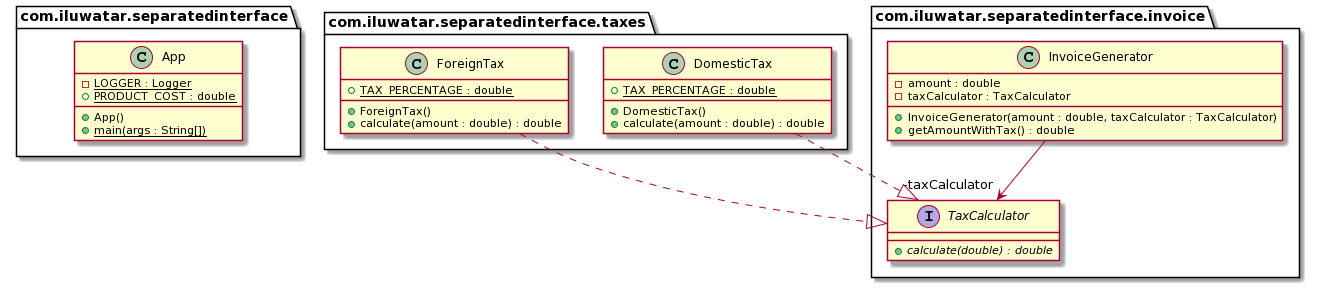
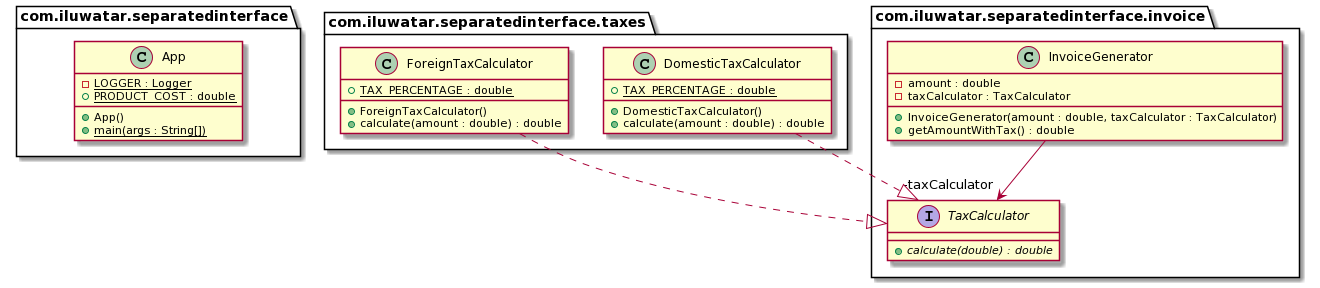
#1313 Rename DomesticTax,ForeignTax and review fixes

diff --git a/separated-interface/src/main/java/com/iluwatar/separatedinterface/App.java b/separated-interface/src/main/java/com/iluwatar/separatedinterface/App.java
@@ -24,8 +24,8 @@
 package com.iluwatar.separatedinterface;
 
 import com.iluwatar.separatedinterface.invoice.InvoiceGenerator;
-import com.iluwatar.separatedinterface.taxes.DomesticTax;
-import com.iluwatar.separatedinterface.taxes.ForeignTax;
+import com.iluwatar.separatedinterface.taxes.DomesticTaxCalculator;
+import com.iluwatar.separatedinterface.taxes.ForeignTaxCalculator;
 import org.slf4j.Logger;
 import org.slf4j.LoggerFactory;
 
@@ -51,11 +51,12 @@ public class App {
    */
   public static void main(String[] args) {
     //Create the invoice generator with product cost as 50 and foreign product tax
-    var internationalProductInvoice = new InvoiceGenerator(PRODUCT_COST, new ForeignTax());
+    var internationalProductInvoice = new InvoiceGenerator(PRODUCT_COST,
+        new ForeignTaxCalculator());
     LOGGER.info("Foreign Tax applied: {}", "" + internationalProductInvoice.getAmountWithTax());
 
     //Create the invoice generator with product cost as 50 and domestic product tax
-    var domesticProductInvoice = new InvoiceGenerator(PRODUCT_COST, new DomesticTax());
+    var domesticProductInvoice = new InvoiceGenerator(PRODUCT_COST, new DomesticTaxCalculator());
     LOGGER.info("Domestic Tax applied: {}", "" + domesticProductInvoice.getAmountWithTax());
   }
 }

diff --git a/separated-interface/src/test/java/com/iluwatar/separatedinterface/taxes/DomesticTaxCalculatorTest.java b/separated-interface/src/test/java/com/iluwatar/separatedinterface/taxes/DomesticTaxCalculatorTest.java
@@ -23,18 +23,19 @@
 
 package com.iluwatar.separatedinterface.taxes;
 
-import com.iluwatar.separatedinterface.invoice.TaxCalculator;
+import org.junit.jupiter.api.Assertions;
+import org.junit.jupiter.api.Test;
 
-/**
- * TaxCalculator for Domestic goods with 20% tax.
- */
-public class DomesticTax implements TaxCalculator {
+public class DomesticTaxCalculatorTest {
 
-  public static final double TAX_PERCENTAGE = 20;
+  private DomesticTaxCalculator target;
 
-  @Override
-  public double calculate(double amount) {
-    return amount * TAX_PERCENTAGE / 100.0;
+  @Test
+  public void testTaxCalculation(){
+    target = new DomesticTaxCalculator();
+
+    var tax=target.calculate(100.0);
+    Assertions.assertEquals(tax,20.0);
   }
 
 }

diff --git a/separated-interface/src/test/java/com/iluwatar/separatedinterface/taxes/ForeignTaxCalculatorTest.java b/separated-interface/src/test/java/com/iluwatar/separatedinterface/taxes/ForeignTaxCalculatorTest.java
@@ -23,18 +23,19 @@
 
 package com.iluwatar.separatedinterface.taxes;
 
-import com.iluwatar.separatedinterface.invoice.TaxCalculator;
+import org.junit.jupiter.api.Assertions;
+import org.junit.jupiter.api.Test;
 
-/**
- * TaxCalculator for foreign goods with 60% tax.
- */
-public class ForeignTax implements TaxCalculator {
+public class ForeignTaxCalculatorTest {
 
-  public static final double TAX_PERCENTAGE = 60;
+  private ForeignTaxCalculator target;
 
-  @Override
-  public double calculate(double amount) {
-    return amount * TAX_PERCENTAGE / 100.0;
+  @Test
+  public void testTaxCalculation(){
+    target = new ForeignTaxCalculator();
+
+    var tax=target.calculate(100.0);
+    Assertions.assertEquals(tax,60.0);
   }
 
 }

diff --git a/separated-interface/src/main/java/com/iluwatar/separatedinterface/taxes/DomesticTaxCalculator.java b/separated-interface/src/main/java/com/iluwatar/separatedinterface/taxes/DomesticTaxCalculator.java
@@ -23,19 +23,18 @@
 
 package com.iluwatar.separatedinterface.taxes;
 
-import org.junit.jupiter.api.Assertions;
-import org.junit.jupiter.api.Test;
+import com.iluwatar.separatedinterface.invoice.TaxCalculator;
 
-public class DomesticTaxTest {
+/**
+ * TaxCalculator for Domestic goods with 20% tax.
+ */
+public class DomesticTaxCalculator implements TaxCalculator {
 
-  private DomesticTax target;
+  public static final double TAX_PERCENTAGE = 20;
 
-  @Test
-  public void testTaxCaluclation(){
-    target = new DomesticTax();
-
-    var tax=target.calculate(100.0);
-    Assertions.assertEquals(tax,20.0);
+  @Override
+  public double calculate(double amount) {
+    return amount * TAX_PERCENTAGE / 100.0;
   }
 
 }

diff --git a/separated-interface/src/main/java/com/iluwatar/separatedinterface/taxes/ForeignTaxCalculator.java b/separated-interface/src/main/java/com/iluwatar/separatedinterface/taxes/ForeignTaxCalculator.java
@@ -23,19 +23,18 @@
 
 package com.iluwatar.separatedinterface.taxes;
 
-import org.junit.jupiter.api.Assertions;
-import org.junit.jupiter.api.Test;
+import com.iluwatar.separatedinterface.invoice.TaxCalculator;
 
-public class ForeignTaxTest {
+/**
+ * TaxCalculator for foreign goods with 60% tax.
+ */
+public class ForeignTaxCalculator implements TaxCalculator {
 
-  private ForeignTax target;
+  public static final double TAX_PERCENTAGE = 60;
 
-  @Test
-  public void testTaxCaluclation(){
-    target = new ForeignTax();
-
-    var tax=target.calculate(100.0);
-    Assertions.assertEquals(tax,60.0);
+  @Override
+  public double calculate(double amount) {
+    return amount * TAX_PERCENTAGE / 100.0;
   }
 
 }

diff --git a/separated-interface/README.md b/separated-interface/README.md
@@ -3,7 +3,7 @@ layout: pattern
 title: Separated Interface
 folder: separated-interface
 permalink: /patterns/separated-interface/
-categories: Architectural
+categories: Structural
 tags:
  - Decoupling
 ---
@@ -22,7 +22,7 @@ In plain words
 
 > Separated interface pattern encourages to keep the implementations of an interface decoupled from the client and its definition, so the client is not dependent on the implementation.
 
-A client code may abstract some specific functionality to an interface, and define the definition of the interface as an SPI. Another package may implement this interface definition with a concrete logic, which will be injected into the client code at runtime (with a third class, injecting the implementation in the client) or at compile time (using Plugin pattern with some configurable file).
+A client code may abstract some specific functionality to an interface, and define the definition of the interface as an SPI ([Service Programming Interface](https://en.wikipedia.org/wiki/Service_provider_interface) is an API intended and open to be implemented or extended by a third party). Another package may implement this interface definition with a concrete logic, which will be injected into the client code at runtime (with a third class, injecting the implementation in the client) or at compile time (using Plugin pattern with some configurable file).
 
 **Programmatic Example**
 
@@ -60,9 +60,9 @@ public interface TaxCalculator {
 
 **Implementation package**
 In another package (which the client is completely unaware of) there exist multiple implementations of the ```TaxCalculator``` interface
-```ForeignTax``` which levies 60% tax for international products.
+```ForeignTaxCalculator``` which levies 60% tax for international products.
 ```java
-public class ForeignTax implements TaxCalculator {
+public class ForeignTaxCalculator implements TaxCalculator {
 
   public static final double TAX_PERCENTAGE = 60;
 
@@ -74,9 +74,9 @@ public class ForeignTax implements TaxCalculator {
 }
 ```
 
-```DomesticTax``` which levies 20% tax for international products.
+```DomesticTaxCalculator``` which levies 20% tax for international products.
 ```java
-public class DomesticTax implements TaxCalculator {
+public class DomesticTaxCalculator implements TaxCalculator {
 
   public static final double TAX_PERCENTAGE = 20;
 
@@ -91,11 +91,11 @@ public class DomesticTax implements TaxCalculator {
 These both implementations are instantiated and injected in the client class by the ```App.java``` class
 
 ```java
-    var internationalProductInvoice = new InvoiceGenerator(PRODUCT_COST, new ForeignTax());
+    var internationalProductInvoice = new InvoiceGenerator(PRODUCT_COST, new ForeignTaxCalculator());
 
     LOGGER.info("Foreign Tax applied: {}", "" + internationalProductInvoice.getAmountWithTax());
 
-    var domesticProductInvoice = new InvoiceGenerator(PRODUCT_COST, new DomesticTax());
+    var domesticProductInvoice = new InvoiceGenerator(PRODUCT_COST, new DomesticTaxCalculator());
 
     LOGGER.info("Domestic Tax applied: {}", "" + domesticProductInvoice.getAmountWithTax());
 ```
